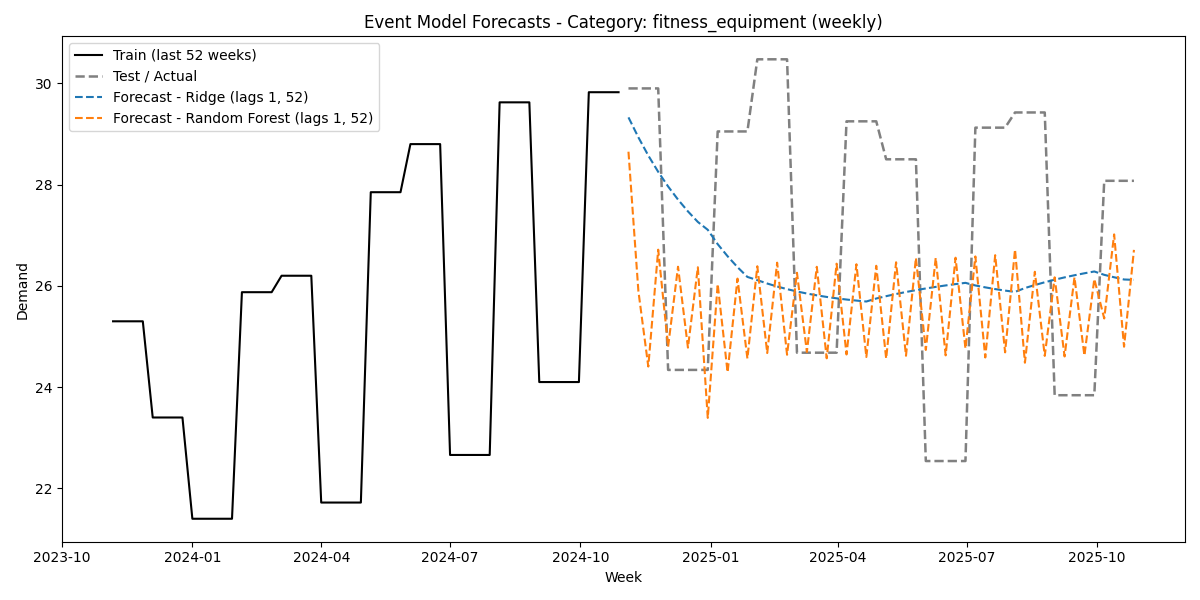
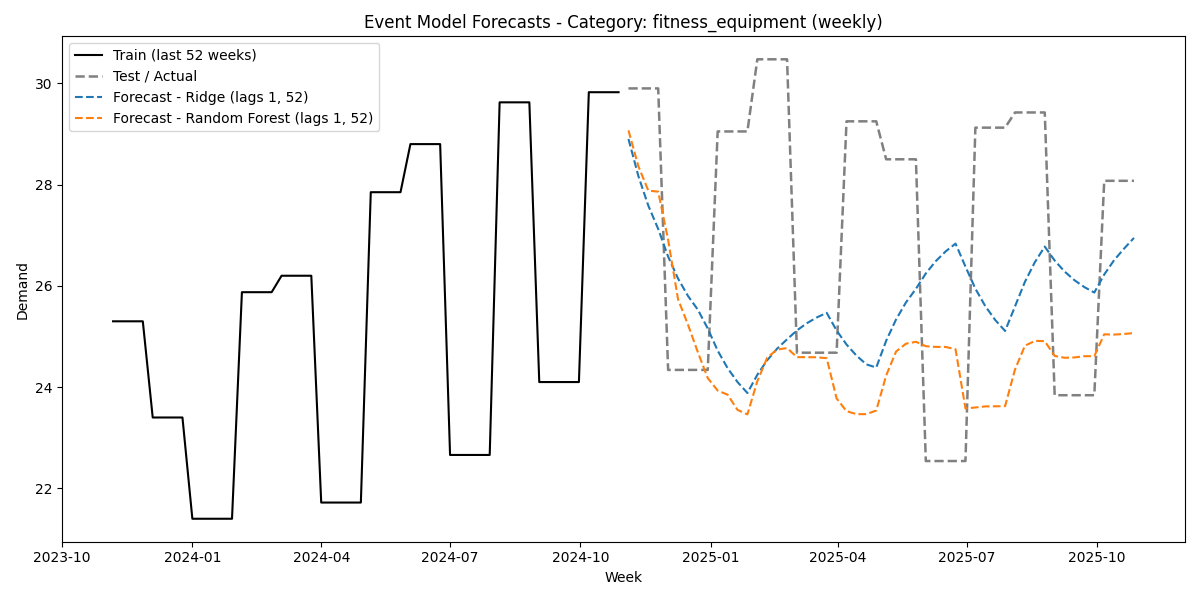
Clarifying figures

Changed region(s): [[0.5242, 0.21, 0.9558, 0.69], [0.8017, 0.66, 0.8325, 0.69], [0.7092, 0.66, 0.74, 0.69]]

diff --git a/src/pipeline/make_figures.py b/src/pipeline/make_figures.py
@@ -1,8 +1,8 @@
 # Generate the 4 key figures
-#1. Bar chart: mean MAE by model for each category
-#2. Event vs non-event MAE (baseline vs event_ridge)
-#3. One “forecast vs actual” plot during an event window for each category
-#4. Stability plot: per-origin MAE for baseline vs event_ridge
+#1. Overall error by model (sMAPE)
+#2. Event vs non-event error (sMAPE)
+#3. Stability plot: per-origin error for baseline vs event_ridge
+#4. One “forecast vs actual” plot during an event window for each category
 
 from __future__ import annotations
 
@@ -45,50 +45,112 @@ def _event_cols(df: pd.DataFrame) -> list[str]:
 
 #1. Bar chart: mean MAE by model for each category
 def fig_overall_mae_bar(overall: pd.DataFrame) -> None:
-    #one figure per category, bar chart of MAE by model (sorted)
+    #overall error bar charts by model, using sMAPE (%)
+    #only plot key models to avoid clutter
+
+    metric = "sMAPE"
+    pretty_metric = "Mean sMAPE (%)"
+
+    key_models = [
+        "seasonal_naive",
+        "rolling_average",
+        "event_ridge",
+        "event_random_forest",
+    ]
+
     for cat, g in overall.groupby("category"):
-        g = g.sort_values("MAE", ascending=True).copy()
+        g = g[g["model"].isin(key_models)].copy()
+        if g.empty:
+            continue 
+
+        label_map = {
+            "seasonal_naive": "Seasonal Naive",
+            "rolling_average": "Rolling Average",
+            "event_ridge": "Event Ridge",
+            "event_random_forest": "Random Forest (event-aware)",
+        }
+        g["model_label"] = g["model"].map(label_map).fillna(g["model"])
+
+        g = g.sort_values(metric, ascending=True)
+
+        x = np.arange(len(g), dtype=float)
+        values = g[metric].values
+        
         plt.figure(figsize=(8, 4.5))
-        plt.bar(g["model"], g["MAE"])
-        plt.ylabel("Mean MAE")
-        plt.title(f"Overall MAE by model — {cat}")
-        plt.xticks(rotation=30, ha="right")
+        plt.bar(x, values)
+        plt.ylabel(pretty_metric)
+        plt.title(f"Overall {pretty_metric} by model — {cat}")
+        plt.xticks(x, g["model_label"], rotation=20, ha="right")
+
+        #add value labels on top of bars
+        for i, v in enumerate(values):
+            plt.text(
+                x[i],
+                v + 0.3,
+                f"{v:.1f}",
+                ha="center",
+                va="bottom",
+                fontsize=8
+            )
+
         plt.tight_layout()
-        out = FIG_DIR / f"{cat}_overall_mae_by_model.png"
+        out = FIG_DIR / f"{cat}_overall_sMAPE_by_model.png"
         plt.savefig(out, dpi=200)
         plt.close()
 
-#2. Event vs non-event MAE (baseline vs event_ridge)
+#2. Event vs non-event (baseline vs event_ridge)
 def fig_event_vs_nonevent_mae(ev: pd.DataFrame) -> None:
-    #for each category, compare MAE for event vs non-event weeks, grouped by model
+    #event vs non event error comparison (sMAPE) for two main models:
+    # baseline Ridge vs event-aware Random Forest
+    metric = "sMAPE"
+    pretty_metric = "Mean sMAPE (%)"
+
+    models_of_interest = ["event_ridge", "event_random_forest"]
+    subset_order = ["event_weeks", "non_event_weeks"]
+
     for cat, gcat in ev.groupby("category"):
-        models = list(gcat["model"].unique())
-        models.sort()
+        gcat = gcat[gcat["model"].isin(models_of_interest)].copy()
+        if gcat.empty:
+            continue
 
-        subset_order = ["event_weeks", "non_event_weeks"]
-        # positions
-        x = np.arange(len(models), dtype=float)
-        width = 0.38
+        #build arrays: [baseline, RF] x [event, non-event]
+        models_labels = ["Ridge (baseline)", "Random Forest (event-aware)"]
+        x = np.arange(len(models_of_interest), dtype=float)
+        width = 0.35
 
-        # build aligned arrays
         vals_event = []
-        vals_nonev = []
-        for m in models:
-            gm = gcat[gcat["model"] == m]
-            me = gm.loc[gm["subset"] == "event_weeks", "MAE"].values
-            mn = gm.loc[gm["subset"] == "non_event_weeks", "MAE"].values
-            vals_event.append(float(me[0]) if len(me) else np.nan)
-            vals_nonev.append(float(mn[0]) if len(mn) else np.nan)
+        vals_nonevent = []
 
-        plt.figure(figsize=(9, 4.8))
-        plt.bar(x - width/2, vals_event, width, label="Event weeks")
-        plt.bar(x + width/2, vals_nonev, width, label="Non-event weeks")
-        plt.ylabel("Mean MAE")
-        plt.title(f"Event vs non-event MAE — {cat}")
-        plt.xticks(x, models, rotation=30, ha="right")
+        for m in models_of_interest:
+            gm = gcat[gcat["model"] == m]
+            me = gm.loc[gm["subset"] == "event_weeks", metric].values
+            mn = gm.loc[gm["subset"] == "non_event_weeks", metric].values
+            vals_event.append(float(me[0]) if len(me) else np.nan)
+            vals_nonevent.append(float(mn[0]) if len(mn) else np.nan)
+
+        
+        plt.figure(figsize=(8, 4.5))
+        plt.bar(x - width / 2, vals_event, width, label="Event weeks")
+        plt.bar(x + width / 2, vals_nonevent, width, label="Non-event weeks")
+        
+        plt.ylabel(pretty_metric)
+        plt.title(f"{pretty_metric}: event vs non-event — {cat}")
+        plt.xticks(x, models_labels, rotation=15, ha="right")
         plt.legend()
+
+        #add value labels on top of bars
+        for i, v in enumerate(vals_event):
+            if np.isnan(v):
+                continue
+            plt.text(x[i] - width / 2, v + 0.3, f"{v:.1f}", ha="center", va="bottom", fontsize=8)
+
+        for i, v in enumerate(vals_nonevent):
+            if np.isnan(v):
+                continue
+            plt.text(x[i] + width / 2, v + 0.3, f"{v:.1f}", ha="center", va="bottom", fontsize=8)
+
         plt.tight_layout()
-        out = FIG_DIR / f"{cat}_event_vs_nonevent_mae.png"
+        out = FIG_DIR / f"{cat}_event_vs_nonevent_sMAPE.png"
         plt.savefig(out, dpi=200)
         plt.close()
 
@@ -98,7 +160,7 @@ def fig_origin_stability(detailed_paths: list[Path], highlight_models: list[str]
     #uses detailed CSVs: compute MAE per origin_time.
 
     if highlight_models is None:
-        highlight_models = ["seasonal_naive", "rolling_average", "event_ridge"]
+        highlight_models = ["event_ridge", "event_random_forest"]
 
     #find categories by scanning filenames
     # - expects: <category>_<model>_detailed.csv
